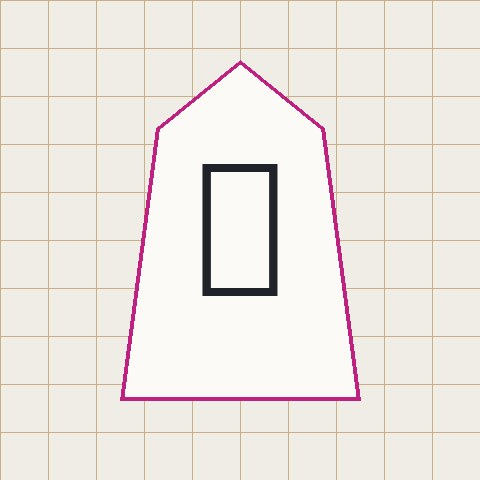
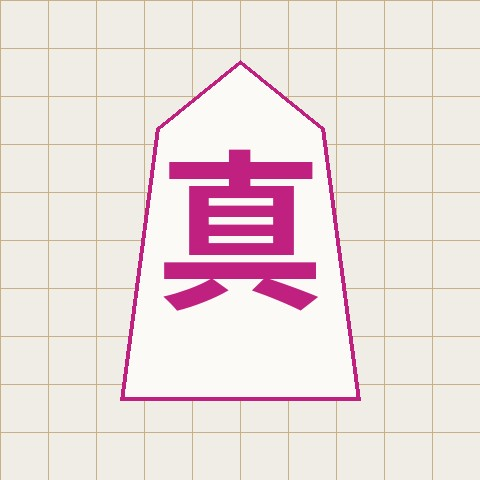
i hate commit messages

Changed region(s): [[0.3438, 0.3125, 0.6562, 0.6562]]

diff --git a/assets/css/main.css b/assets/css/main.css
@@ -128,10 +128,11 @@ main{padding:8px 0 80px;}
 .type-toggle button{font-family:var(--font-mono);font-size:12px;padding:5px 10px;border:1px solid var(--line);background:var(--card);color:var(--ink-soft);border-radius:2px;cursor:pointer;}
 .type-toggle button[aria-pressed="true"]{border-color:var(--teal);color:var(--teal);}
 .koma-row{display:flex;flex-wrap:wrap;gap:8px;}
-.koma{display:inline-flex;align-items:center;gap:8px;background:transparent;border:0;padding:4px 10px 4px 4px;cursor:pointer;font-family:var(--font-body);font-size:13px;color:var(--ink-soft);border-radius:2px;text-decoration:none;transition:color .15s;}
+.koma{display:inline-flex;align-items:center;background:var(--card);border:1px solid var(--line);padding:5px 10px;cursor:pointer;font-family:var(--font-mono);font-size:12px;color:var(--ink-soft);border-radius:2px;text-decoration:none;transition:color .15s,border-color .15s;}
 .koma:hover{color:var(--ink);}
-.koma[aria-pressed="true"]{color:var(--ink);font-weight:600;}
-.koma[aria-pressed="true"] .tile{background:var(--teal);color:#fff;border-color:var(--teal);}
+.koma[aria-pressed="true"]{border-color:var(--teal);color:var(--teal);}
+/* homepage browse-by-topic links */
+.topics{font-family:var(--font-mono);font-size:14px;color:var(--ink-soft);margin:0;line-height:2;}
 .result{display:flex;align-items:flex-start;gap:12px;padding:14px 0;border-bottom:1px solid var(--line);}
 .result.hidden{display:none;}
 .result .tile{flex:0 0 auto;width:26px;height:28px;font-size:12px;background:var(--paper);}

diff --git a/about.html b/about.html
@@ -14,18 +14,10 @@
 <link rel="stylesheet" href="assets/css/main.css">
 </head>
 <body>
-    <header class="site">
-        <div class="wrap">
-            <div class="brand-row">
-                <a class="brand" href="index.html">
-                    <span class="seal" aria-hidden="true">真</span>
-                    <span class="handle">@<b>mako</b>.log</span>
-                </a>
-            </div>
-            <nav class="nav"><a href="index.html">home</a><a href="notes/index.html">notes</a><a href="blog/index.html">blog</a><a href="resources.html">resources</a><a href="about.html" aria-current="page">about</a><a href="search.html">search</a></nav>
-            </div>
-        </div>
-    </header>
+    <header class="site"><div class="wrap"><div class="brand-row">
+<a class="brand" href="index.html"><span class="seal" aria-hidden="true">真</span><span class="handle">@<b>mako</b>.log</span></a>
+<nav class="nav"><a href="index.html">home</a><a href="notes/index.html">notes</a><a href="blog/index.html">blog</a><a href="resources.html">resources</a><a href="about.html" aria-current="page">about</a><a href="search.html">search</a></nav>
+</div></div></header>
     <main>
         <div class="wrap">
             <div class="pagehead"><div class="eyebrow"><span class="brace">%</span> mako &middot; makostrwlkr</div>
